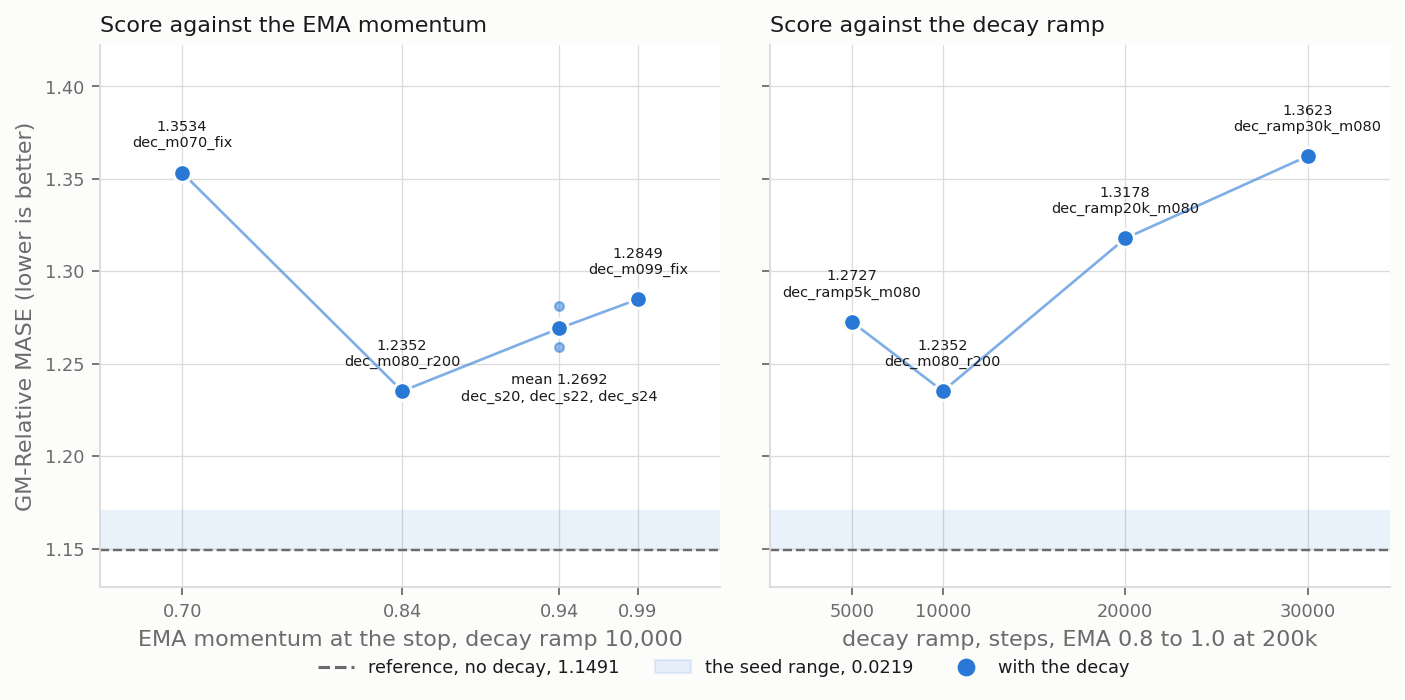
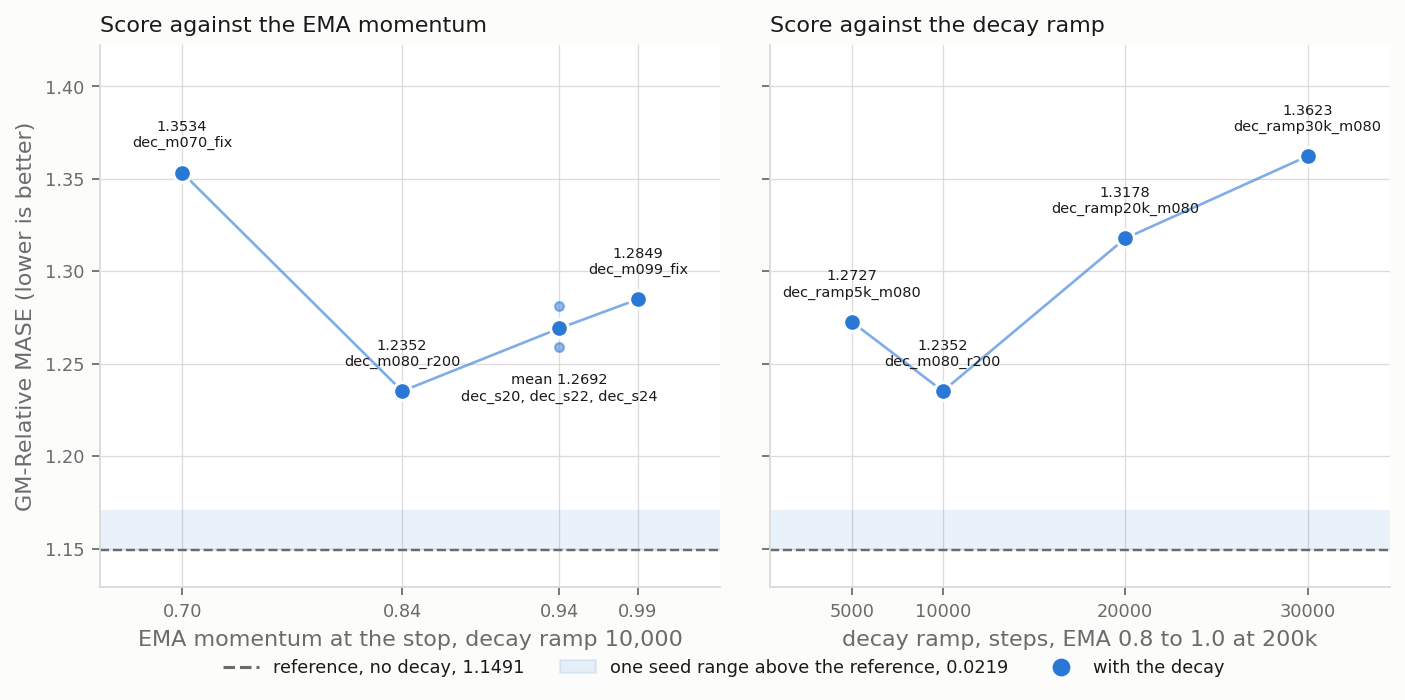
report(#409): the 0.8 arms are read against their comparator's own 0.1432 seed range, seeds matched, range bar and stop in the figures

Changed region(s): [[0.1836, 0.93, 0.8875, 0.96]]

diff --git a/reports/2026-08-22_rep_weight_decay/scripts/rank_gate.py b/reports/2026-08-22_rep_weight_decay/scripts/rank_gate.py
@@ -115,25 +115,32 @@ def main(argv=None):
         f"# those arms: {', '.join(seeds)}",
         "# a gap under the gate is not a rank. This card measured no other "
         "spread.",
+        "# vs no-decay: the comparator is the sweep's run at the arm's own "
+        "seed when it ran one, and `comparator_range` is the sweep's spread "
+        "over its counted seeds of that schedule. A gap inside that spread is "
+        "`inside the comparator range` whatever the gate says.",
         "# verdict: noise under the gate, threshold under twice the gate, "
         "rank at twice the gate or more.",
-        "block\tleft\tright\tleft_score\tright_score\tgap\tverdict",
+        "block\tleft\tright\tleft_score\tright_score\tgap\tverdict\tcomparator_range",
     ]
 
     # Block 1: each arm against what the sweep scored for its own schedule,
     # and against the number the card asks an arm to beat.
     for arm, value in sorted(scores.items(), key=lambda kv: kv[1]):
         row = arms.get(arm)
-        ref = S.SWEEP_SCORES.get(S.schedule(row)) if row else None
+        ref = S.sweep_score(row) if row else None
         if ref is None:
             lines.append(f"vs no-decay\t{arm}\tthe sweep never ran this "
-                         f"schedule\t{value:.4f}\t-\t-\t-")
+                         f"schedule\t{value:.4f}\t-\t-\t-\t-")
         else:
             gap = value - ref
+            lo, hi = S.SWEEP_RANGES.get(S.schedule(row), (ref, ref))
+            comp = hi - lo
+            v = ("inside the comparator range" if abs(gap) <= comp
+                 else verdict(gap, spread))
             lines.append(
                 f"vs no-decay\t{arm}\tthe same schedule, no decay\t"
-                f"{value:.4f}\t{ref:.4f}\t{gap:+.4f}\t"
-                f"{verdict(gap, spread)}")
+                f"{value:.4f}\t{ref:.4f}\t{gap:+.4f}\t{v}\t{comp:.4f}")
         gap = value - S.SWEEP_BEST
         lines.append(
             f"vs target\t{arm}\tthe card's target\t{value:.4f}\t"
@@ -153,7 +160,7 @@ def main(argv=None):
     margins = []
     for line in lines:
         parts = line.split("\t")
-        if (len(parts) == 7 and parts[6] in ("rank", "threshold")
+        if (len(parts) >= 7 and parts[6] in ("rank", "threshold")
                 and parts[0] == "arm vs arm"):
             margins.append((abs(float(parts[5])) - spread, parts[1], parts[2],
                             float(parts[5])))

diff --git a/reports/2026-08-22_rep_weight_decay/scripts/plot_scores.py b/reports/2026-08-22_rep_weight_decay/scripts/plot_scores.py
@@ -101,8 +101,14 @@ def main(argv=None):
         label = S.arm_label(row)
         labels.append(label if row.get("ambiguous")
                       else f"{label}, {row['arm']}")
-        ref = S.SWEEP_SCORES.get(S.schedule(row))
+        ref = S.sweep_score(row)
         if ref is not None:
+            # The comparator's own seed spread, when the sweep ran that
+            # schedule at more than one seed and the spread is visible.
+            lo, hi = S.SWEEP_RANGES.get(S.schedule(row), (ref, ref))
+            if hi - lo > 0.01:
+                ax.plot([lo, hi], [y, y], color=S.HELD, linewidth=6.0,
+                        alpha=0.30, solid_capstyle="round", zorder=0)
             # The pair, and the move between them. A slope reads as one fact
             # where two separate dots read as two.
             ax.plot([ref, value], [y, y], color=S.MUTED, linewidth=1.2,
@@ -142,7 +148,8 @@ def main(argv=None):
     ax.set_xlabel(
         "GM-Relative MASE over the 97 GIFT-Eval configs (lower is better)")
     ax.set_title("GM-Relative MASE of every scored arm, with and without "
-                 "the decay", color=S.INK, fontsize=11, loc="left")
+                 "the decay, at the 40,000-step stop", color=S.INK,
+                 fontsize=11, loc="left")
     # Inside the axes, at the top, on whichever side of the line has room. A
     # label above the axes would sit on the title.
     x_lo, x_hi = ax.get_xlim()
@@ -162,9 +169,11 @@ def main(argv=None):
     ax.plot([], [], marker="o", linestyle="none", color=S.SURFACE,
             markeredgecolor=S.REFERENCE, markeredgewidth=1.4, markersize=7,
             label="the same schedule, no decay")
+    ax.plot([], [], color=S.HELD, linewidth=6.0, alpha=0.30,
+            label="seed range of the no-decay schedule")
     ax.plot([], [], color=S.REFERENCE, linestyle="--", linewidth=1.4,
             label="reference: the best schedule, no decay")
-    ax.legend(frameon=False, fontsize=8, labelcolor=S.INK, ncol=4,
+    ax.legend(frameon=False, fontsize=8, labelcolor=S.INK, ncol=3,
               loc="upper center", bbox_to_anchor=(0.5, -0.20))
     # The arms without a score are in the report annex, not in the figure.
     Path(args.out).parent.mkdir(parents=True, exist_ok=True)

diff --git a/reports/2026-08-22_rep_weight_decay/scripts/arm_style.py b/reports/2026-08-22_rep_weight_decay/scripts/arm_style.py
@@ -62,6 +62,21 @@ SWEEP_SCORES = {
     ("0.95", "1.0", "100000"): 1.2130,
     ("0.8", "1.0", "200000"): 1.1782,
 }
+# The same study at a named backbone seed, for the arms of this card that
+# share that seed: `dec_s24` reads against the sweep's 20260524 run.
+SWEEP_SEED_SCORES = {
+    ("0.9", "1.0", "100000", "20260524"): 1.1491,
+    ("0.9", "1.0", "100000", "20260520"): 1.1507,
+    ("0.8", "1.0", "200000", "20260520"): 1.1782,
+    ("0.8", "1.0", "200000", "20260522"): 1.3214,
+}
+# The sweep's own seed spread per schedule, (low, high) over its counted seeds.
+# `0.8 to 1.0 at 200k` spans 1.1782 / 1.2893 / 1.3214, so a gap against it
+# is read against 0.1432 and not only against this card's 0.0219.
+SWEEP_RANGES = {
+    ("0.9", "1.0", "100000"): (1.1491, 1.1507),
+    ("0.8", "1.0", "200000"): (1.1782, 1.3214),
+}
 # The best of them, which is the number the card asks an arm to beat.
 SWEEP_BEST = 1.1491
 # The card's own decay ramp, in steps. Every row of `arms.tsv` takes it unless
@@ -73,6 +88,14 @@ STOP = 40000
 def schedule(row):
     """One arm's EMA schedule, as the key that identifies its row."""
     return (row["tau"], row["end"], row["ramp"])
+
+
+def sweep_score(row):
+    """What the sweep scored for this arm's schedule, at the arm's seed when
+    the sweep ran that seed, else at its first seed. None if never run."""
+    seed = str(row.get("seed", ""))
+    return SWEEP_SEED_SCORES.get(schedule(row) + (seed,),
+                                 SWEEP_SCORES.get(schedule(row)))
 
 
 def decay_ramp(row):

diff --git a/reports/2026-08-22_rep_weight_decay/scripts/plot_axes.py b/reports/2026-08-22_rep_weight_decay/scripts/plot_axes.py
@@ -135,7 +135,7 @@ def main(argv=None):
     right.plot([], [], color=S.REFERENCE, linestyle="--", linewidth=1.4,
                label=f"reference, no decay, {S.SWEEP_BEST:.4f}")
     right.fill_between([], [], [], color=S.SERIES, alpha=0.10,
-                       label=f"the seed range, {band:.4f}")
+                       label=f"one seed range above the reference, {band:.4f}")
     right.plot([], [], marker="o", linestyle="none", color=S.SERIES,
                markersize=7, label="with the decay")
     fig.legend(frameon=False, fontsize=8, labelcolor=S.INK, ncol=3,

diff --git a/reports/2026-08-22_rep_weight_decay/rep_weight_decay.md b/reports/2026-08-22_rep_weight_decay/rep_weight_decay.md
@@ -1,14 +1,10 @@
 # A decay of the L_rep weight to zero never beats the no-decay reference at k = 32
 
-A linear decay of the L_rep weight, the contrastive representation term of the training loss, does not improve the GM-Relative MASE of the k = 32 cell, one backbone configuration at rollout depth 32. Its best setting loses to the no-decay reference by 3.9 times the seed range. The seed range is the spread of three seeds of one schedule.
+A linear decay of the L_rep weight, the contrastive representation term of the training loss, does not improve the GM-Relative MASE of the k = 32 cell, one backbone configuration at rollout depth 32. Its best arm, one backbone run, loses to the no-decay reference by 3.9 times the seed range.
 
 ![scores](plots/scores.png)
 
-Filled: an arm (one backbone run) with the decay. Open: the same EMA schedule without it.
-
 ![axes](plots/axes.png)
-
-Left: EMA momentum at the stop. Right: decay ramp.
 
 Both axes have their best value inside the tested range.
 
@@ -22,7 +18,7 @@ Every scored arm still reduces its total loss over steps 20,000 to 40,000, and o
 
 | term in the figure | definition |
 |---|---|
-| `L_align, reduced` | the residual `(loss - rep_w * l_rep - sigreg_e - sigreg_h) / align_w` |
+| `L_align, reduced` | `L_align` is the alignment term of the loss, the student against the EMA teacher; the figure draws the residual `(loss - rep_w * l_rep - sigreg_e - sigreg_h) / align_w` |
 | `sigreg_e`, `sigreg_h` | the two SIGReg regularisation terms of the loss, each at weight 1.0 (`notes/loss_decomposition.md`) |
 | `align_w` | the weight of L_align, 1.0 (`scripts/plot_loss_terms.py`, `--align-weight`) |
 | `cos_err` | the mean forecast cosine error over the 33 rollout depths d0 to d32 |
@@ -30,7 +26,7 @@ Every scored arm still reduces its total loss over steps 20,000 to 40,000, and o
 
 ## Tables
 
-Score of each arm at the 40,000-step stop, named by its EMA schedule, decay ramp and seed (`scripts/arms.tsv`). The last column is the same EMA schedule with no decay, from the reference study.
+Score of each arm at the 40,000-step stop, by EMA schedule, decay ramp and seed (`scripts/arms.tsv`); last column: the same schedule with no decay, at the arm's seed where the reference study ran it.
 
 | arm | EMA schedule | momentum at the stop | decay ramp, steps | seed | score | same schedule, no decay |
 |---|---|---|---|---|---|---|
@@ -43,17 +39,18 @@ Score of each arm at the 40,000-step stop, named by its EMA schedule, decay ramp
 | dec_ramp30k_m080 | 0.8 to 1.0 at 200k | 0.840 | 30,000 | 20260520 | 1.3623 | 1.1782 |
 | dec_s20 | 0.9 to 1.0 at 100k | 0.940 | 10,000 | 20260520 | 1.2670 | 1.1507 |
 | dec_s22 | 0.9 to 1.0 at 100k | 0.940 | 10,000 | 20260522 | 1.2593 | 1.1507 |
-| dec_s24 | 0.9 to 1.0 at 100k | 0.940 | 10,000 | 20260524 | 1.2812 | 1.1507 |
+| dec_s24 | 0.9 to 1.0 at 100k | 0.940 | 10,000 | 20260524 | 1.2812 | 1.1491 |
 | dec_m099_fix | 0.99 fixed | 0.990 | 10,000 | 20260520 | 1.2849 | not run |
-| reference | 0.9 to 1.0 at 100k | 0.940 | no decay | 20260520, 20260522 | | 1.1491, 1.1507 |
+| reference | 0.9 to 1.0 at 100k | 0.940 | no decay | 20260524, 20260520 | | 1.1491, 1.1507 |
 
-Gaps against the seed range of 0.0219, the range of `dec_s20`, `dec_s22`, `dec_s24` (`results/rank_gate.tsv`). Verdict rule: a gap under the seed range is noise, a gap under twice the seed range is a threshold, and a gap of twice the seed range or more is a rank.
+Gaps against the seed range of 0.0219, the range of `dec_s20`, `dec_s22`, `dec_s24` (`results/rank_gate.tsv`). Verdict rule: a gap under the seed range is noise, a gap under twice the seed range is a threshold, and a gap of twice the seed range or more is a rank. Column 4: the comparator's own seed range from `reports/2026-08-19_ema_momentum_k32/ema_momentum_k32.md`, 1.1782 to 1.3214 over three counted seeds of `0.8 to 1.0 at 200k`; a gap inside it is not a rank.
 
-| comparison | gap | gap over seed range | verdict |
-|---|---|---|---|
-| each scored arm against the reference 1.1491 | +0.0861 to +0.2132 | 3.9 to 9.7 | rank |
-| each scored arm whose EMA schedule the reference study also ran, against that schedule with no decay | +0.0570 to +0.1841 | 2.6 to 8.4 | rank |
-| best arm 1.2352 against the second 1.2593 | +0.0241 | 1.1 | threshold |
+| comparison | gap | gap over seed range | seed range of the no-decay comparator | verdict |
+|---|---|---|---|---|
+| each scored arm against the reference 1.1491 | +0.0861 to +0.2132 | 3.9 to 9.7 | 0.0016 | rank |
+| the three `0.9 to 1.0 at 100k` arms against that schedule with no decay, seed-matched | +0.1086 to +0.1321 | 5.0 to 6.0 | 0.0016 | rank |
+| the four `0.8 to 1.0 at 200k` arms against that schedule with no decay | +0.0570 to +0.1841 | 2.6 to 8.4 | 0.1432 | inside the comparator range, except `dec_ramp30k_m080` |
+| best arm 1.2352 against the second 1.2593 | +0.0241 | 1.1 | | threshold |
 
 Contrastive AUC per scored arm (`results/auc_verdicts.tsv`), with the floor the lowest trailing mean over every leg of the arm; the figure also draws the three unscored runs `dec_s23`, `dec_s25` and `dec_m080_r200_s24`.
 
